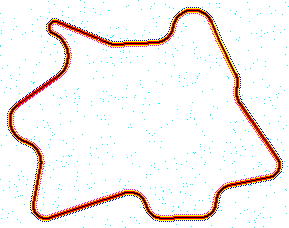
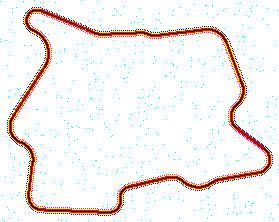
Track generation now fails less

diff --git a/eufs_launcher/src/eufs_launcher/TrackGenerator.py b/eufs_launcher/src/eufs_launcher/TrackGenerator.py
@@ -134,7 +134,9 @@ def generateAutocrossTrackdriveTrack(startpoint):
 		xys.extend(generated)
 
 		#Now we want to set checkpoints to pass through:
-		goalpoints = [(startpoint[0]+120,startpoint[1]),(startpoint[0]+180,startpoint[1]+120),(startpoint[0]-50,startpoint[1]+180)]
+		goalpoints = [	(startpoint[0]+TrackGenerator.MAX_TRACK_LENGTH*0.08,startpoint[1]),
+				(startpoint[0]+TrackGenerator.MAX_TRACK_LENGTH*0.12,startpoint[1]+TrackGenerator.MAX_TRACK_LENGTH*0.08),
+				(startpoint[0]-TrackGenerator.MAX_TRACK_LENGTH*0.03,startpoint[1]+TrackGenerator.MAX_TRACK_LENGTH*0.12)]
 		for goalpoint in goalpoints:
 			(generated, curpoint, length) = generatePathFromPointToPoint(curpoint,goalpoint,endtangent(xys),fuzzradius=20)
 			curTrackLength+= length
